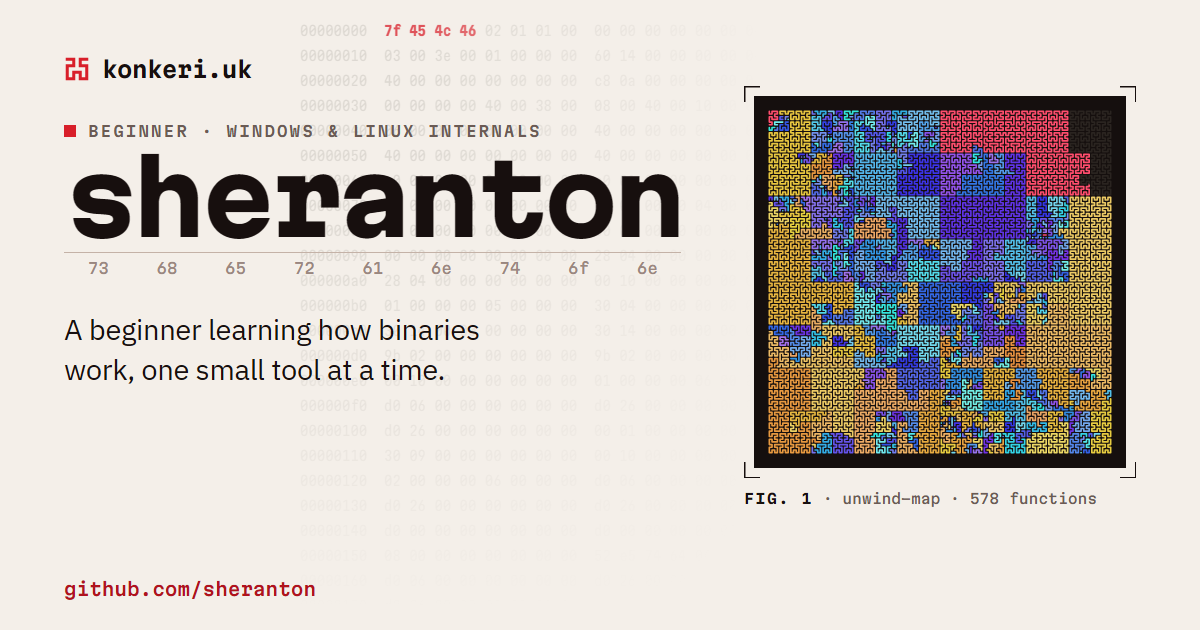
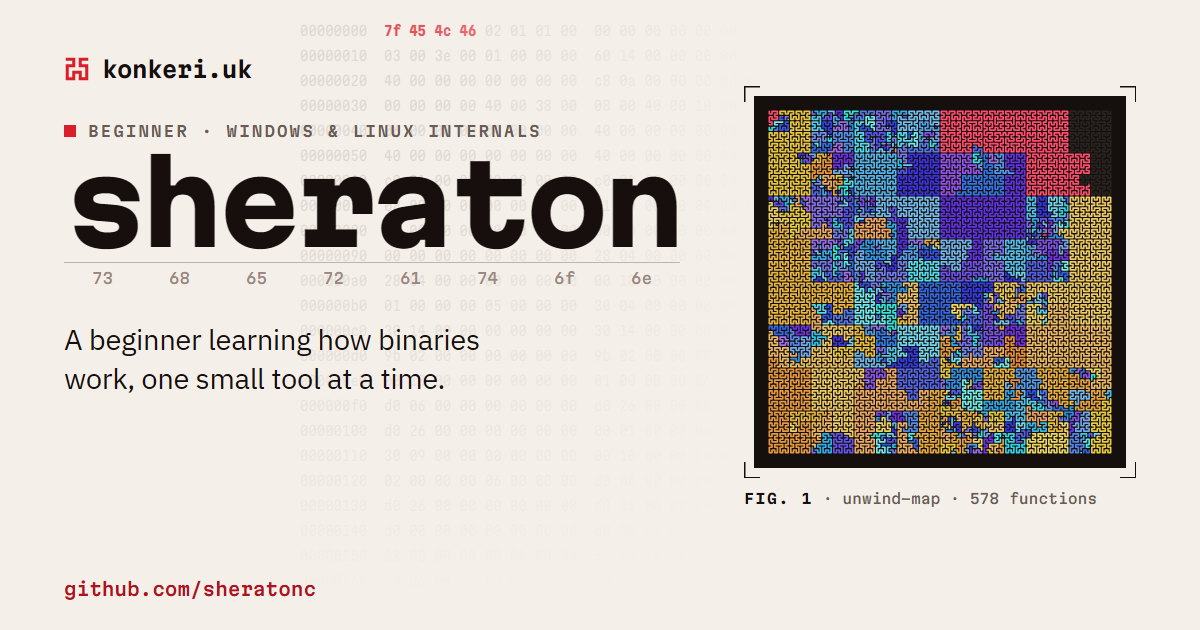
Use the sheraton alias and the sheratonc account

Changed region(s): [[0.0617, 0.2413, 0.5858, 0.4524], [0.0308, 0.5127, 0.4008, 0.6333], [0.2158, 0.9048, 0.2775, 0.9651]]

diff --git a/index.html b/index.html
@@ -3,8 +3,8 @@
 <head>
 	<meta charset="utf-8">
 	<meta name="viewport" content="width=device-width, initial-scale=1">
-	<title>sheranton · learning binary analysis and Windows &amp; Linux internals</title>
-	<meta name="description" content="sheranton is a beginner learning reverse engineering and Windows &amp; Linux internals by building small tools in Rust, C++, C and Python.">
+	<title>sheraton · learning binary analysis and Windows &amp; Linux internals</title>
+	<meta name="description" content="sheraton is a beginner learning reverse engineering and Windows &amp; Linux internals by building small tools in Rust, C++, C and Python.">
 	<meta name="color-scheme" content="light dark">
 	<meta name="theme-color" content="#f4efe9" media="(prefers-color-scheme: light)">
 	<meta name="theme-color" content="#100c0c" media="(prefers-color-scheme: dark)">
@@ -12,7 +12,7 @@
 	<link rel="canonical" href="https://konkeri.uk/">
 	<meta property="og:type" content="website">
 	<meta property="og:url" content="https://konkeri.uk/">
-	<meta property="og:title" content="sheranton · learning binary analysis and Windows & Linux internals">
+	<meta property="og:title" content="sheraton · learning binary analysis and Windows & Linux internals">
 	<meta property="og:description" content="A beginner learning how binaries work, one small tool at a time.">
 	<meta property="og:image" content="https://konkeri.uk/og.png">
 	<meta property="og:image:width" content="1200">
@@ -39,7 +39,7 @@
 			<button type="button" data-theme-set="paper" aria-pressed="false">Paper</button>
 			<button type="button" data-theme-set="ink" aria-pressed="false">Ink</button>
 		</div>
-		<a class="nav-gh" href="https://github.com/sheranton" rel="me">GitHub <span aria-hidden="true">↗</span></a>
+		<a class="nav-gh" href="https://github.com/sheratonc" rel="me">GitHub <span aria-hidden="true">↗</span></a>
 	</header>
 
 	<main id="main">
@@ -77,8 +77,8 @@
 			<div class="gutter" aria-hidden="true"><span class="addr">0x000000</span><span class="sname">e_ident</span><span class="meta">7f 45 4c 46</span></div>
 			<div class="sec-main">
 				<p class="kicker"><i aria-hidden="true"></i>Beginner · binary analysis · Windows &amp; Linux internals</p>
-				<h1 class="name" aria-label="sheranton">
-					<span class="ch" aria-hidden="true"><b>s</b><i>73</i></span><span class="ch" aria-hidden="true"><b>h</b><i>68</i></span><span class="ch" aria-hidden="true"><b>e</b><i>65</i></span><span class="ch" aria-hidden="true"><b>r</b><i>72</i></span><span class="ch" aria-hidden="true"><b>a</b><i>61</i></span><span class="ch" aria-hidden="true"><b>n</b><i>6e</i></span><span class="ch" aria-hidden="true"><b>t</b><i>74</i></span><span class="ch" aria-hidden="true"><b>o</b><i>6f</i></span><span class="ch" aria-hidden="true"><b>n</b><i>6e</i></span>
+				<h1 class="name" aria-label="sheraton">
+					<span class="ch" aria-hidden="true"><b>s</b><i>73</i></span><span class="ch" aria-hidden="true"><b>h</b><i>68</i></span><span class="ch" aria-hidden="true"><b>e</b><i>65</i></span><span class="ch" aria-hidden="true"><b>r</b><i>72</i></span><span class="ch" aria-hidden="true"><b>a</b><i>61</i></span><span class="ch" aria-hidden="true"><b>t</b><i>74</i></span><span class="ch" aria-hidden="true"><b>o</b><i>6f</i></span><span class="ch" aria-hidden="true"><b>n</b><i>6e</i></span>
 				</h1>
 				<div class="hero-grid">
 					<div class="hero-copy">
@@ -86,7 +86,7 @@
 						<p class="langs" aria-label="Languages"><span>Rust</span><span>C++</span><span>C</span><span>Python</span></p>
 						<p class="cta">
 							<a class="btn btn-solid" href="#tools">Browse the tools <span aria-hidden="true">↓</span></a>
-							<a class="btn" href="https://github.com/sheranton" rel="me">github.com/sheranton <span aria-hidden="true">↗</span></a>
+							<a class="btn" href="https://github.com/sheratonc" rel="me">github.com/sheratonc <span aria-hidden="true">↗</span></a>
 						</p>
 						<p class="latest" id="latest" hidden></p>
 					</div>
@@ -127,7 +127,7 @@
 				<h2 class="title"><span class="idx">01</span>About</h2>
 				<div class="about">
 					<div class="prose">
-						<p class="big">I'm <strong>sheranton</strong>, a beginner teaching myself systems programming and reverse engineering on Windows and Linux.</p>
+						<p class="big">I'm <strong>sheraton</strong>, a beginner teaching myself systems programming and reverse engineering on Windows and Linux.</p>
 						<p>I learn best by building things, so most of my projects are small tools that help me see what happens between source code and a running program: how compilers lay out objects and metadata, how linkers put a binary together, how loaders map it into memory, and how debuggers and unwinders read it back.</p>
 					</div>
 					<blockquote class="thesis">
@@ -154,7 +154,7 @@
 				<article class="feature" id="tool-unwind-map">
 					<div class="feature-copy">
 						<p class="label"><i class="sq tc-unwind-map" aria-hidden="true"></i>Biggest project so far · Rust</p>
-						<h3><a href="https://github.com/sheranton/unwind-map">unwind-map</a></h3>
+						<h3><a href="https://github.com/sheratonc/unwind-map">unwind-map</a></h3>
 						<p class="feature-desc" id="feature-desc">Recover function boundaries from stripped Linux ELF binaries using the .eh_frame unwind tables that strip can't remove.</p>
 						<p>In my tests it found every function that has unwind info without any false starts, and its output can go straight back into <code>objcopy</code> to give a stripped binary its symbols again.</p>
 						<dl class="spec">
@@ -164,7 +164,7 @@
 							<div><dt>Dependencies</dt><dd>0</dd></div>
 						</dl>
 						<p class="feature-meta" id="feature-meta"></p>
-						<p class="cta"><a class="btn" href="https://github.com/sheranton/unwind-map">Source on GitHub <span aria-hidden="true">↗</span></a></p>
+						<p class="cta"><a class="btn" href="https://github.com/sheratonc/unwind-map">Source on GitHub <span aria-hidden="true">↗</span></a></p>
 					</div>
 					<figure class="listing">
 						<div class="crop"><pre class="plate out" id="out-unwind-map" tabindex="0" aria-label="unwind-map output"></pre></div>
@@ -181,13 +181,13 @@
 						<div class="kit-list" id="kit-list" role="tablist" aria-orientation="vertical" aria-labelledby="kit-title">
 							<noscript>
 								<ul class="fallback">
-									<li><a href="https://github.com/sheranton/pe-walker">pe-walker</a>: inspect the structure of a PE file</li>
-									<li><a href="https://github.com/sheranton/pe-diff">pe-diff</a>: structural diff of two PE files</li>
-									<li><a href="https://github.com/sheranton/rtti-dump">rtti-dump</a>: recover class hierarchies from MSVC RTTI</li>
-									<li><a href="https://github.com/sheranton/vtable-dump">vtable-dump</a>: find vtables and their slots</li>
-									<li><a href="https://github.com/sheranton/pattern-scan">pattern-scan</a>: IDA-style signature scanning</li>
-									<li><a href="https://github.com/sheranton/Panda">Panda</a>: every game launcher in one library</li>
-									<li><a href="https://github.com/sheranton/opencode-discord-rpc">opencode-discord-rpc</a>: Discord Rich Presence for OpenCode</li>
+									<li><a href="https://github.com/sheratonc/pe-walker">pe-walker</a>: inspect the structure of a PE file</li>
+									<li><a href="https://github.com/sheratonc/pe-diff">pe-diff</a>: structural diff of two PE files</li>
+									<li><a href="https://github.com/sheratonc/rtti-dump">rtti-dump</a>: recover class hierarchies from MSVC RTTI</li>
+									<li><a href="https://github.com/sheratonc/vtable-dump">vtable-dump</a>: find vtables and their slots</li>
+									<li><a href="https://github.com/sheratonc/pattern-scan">pattern-scan</a>: IDA-style signature scanning</li>
+									<li><a href="https://github.com/sheratonc/Panda">Panda</a>: every game launcher in one library</li>
+									<li><a href="https://github.com/sheratonc/opencode-discord-rpc">opencode-discord-rpc</a>: Discord Rich Presence for OpenCode</li>
 								</ul>
 							</noscript>
 						</div>
@@ -244,9 +244,9 @@
 			<div class="sec-main">
 				<h2 class="title"><span class="idx">06</span>Contact</h2>
 				<p class="contact-lede">I'm still learning, so feedback, corrections and tips are really welcome. The best way to reach me is on GitHub: open an issue on any repository.</p>
-				<a class="biglink" href="https://github.com/sheranton" rel="me">github.com/sheranton<span aria-hidden="true">↗</span></a>
+				<a class="biglink" href="https://github.com/sheratonc" rel="me">github.com/sheratonc<span aria-hidden="true">↗</span></a>
 				<pre class="dyn" aria-label="readelf -d style summary of the links above"><span class="dim">  Tag        Type       Name/Value</span>
- 0x00000001 (NEEDED)   Shared library: [<a href="https://github.com/sheranton">github.com/sheranton</a>]
+ 0x00000001 (NEEDED)   Shared library: [<a href="https://github.com/sheratonc">github.com/sheratonc</a>]
  0x0000000e (SONAME)   Library soname: [konkeri.uk]</pre>
 			</div>
 		</section>
@@ -255,7 +255,7 @@
 	<footer class="footer">
 		<span class="eof">EOF</span>
 		<span>konkeri.uk · built <span id="build">2026</span> · served from Cloudflare's edge</span>
-		<span>© <span id="year">2026</span> sheranton</span>
+		<span>© <span id="year">2026</span> sheraton</span>
 	</footer>
 
 	<aside class="minimap" id="minimap" aria-hidden="true">

diff --git a/scripts/og.html b/scripts/og.html
@@ -27,7 +27,7 @@
 	.top svg { width: 26px; height: 26px; fill: none; stroke: #d81f2a; stroke-width: 2.8; stroke-linecap: square; }
 	.kicker { display: flex; align-items: center; gap: 12px; margin: 40px 0 18px; color: #6b5b55; font: 600 15px "Martian"; letter-spacing: 0.14em; text-transform: uppercase; }
 	.kicker i { width: 12px; height: 12px; background: #d81f2a; }
-	.name { display: flex; color: #170f0e; font: 800 98px/0.82 "Martian"; font-stretch: 112.5%; letter-spacing: -0.05em; }
+	.name { display: flex; color: #170f0e; font: 800 110px/0.82 "Martian"; font-stretch: 112.5%; letter-spacing: -0.05em; }
 	.ch { display: grid; justify-items: center; }
 	.ch i { justify-self: stretch; margin-top: 14px; padding-top: 8px; border-top: 1.5px solid #c4b2a7; color: #9a8780; font: 500 15px/1 "Martian"; font-style: normal; font-stretch: 100%; letter-spacing: 0; text-align: center; }
 	.lede { margin: 34px 0 0; max-width: 25ch; color: #170f0e; font-size: 29px; line-height: 1.35; letter-spacing: -0.01em; }
@@ -81,7 +81,7 @@
 		<div class="top"><svg viewBox="0 0 24 24"><path d="M3 3H9V9H3V21H9V15H15V21H21V9H15V3H21"/></svg>konkeri.uk</div>
 		<p class="kicker"><i></i>Beginner · Windows &amp; Linux internals</p>
 		<div class="name">
-			<span class="ch"><b>s</b><i>73</i></span><span class="ch"><b>h</b><i>68</i></span><span class="ch"><b>e</b><i>65</i></span><span class="ch"><b>r</b><i>72</i></span><span class="ch"><b>a</b><i>61</i></span><span class="ch"><b>n</b><i>6e</i></span><span class="ch"><b>t</b><i>74</i></span><span class="ch"><b>o</b><i>6f</i></span><span class="ch"><b>n</b><i>6e</i></span>
+			<span class="ch"><b>s</b><i>73</i></span><span class="ch"><b>h</b><i>68</i></span><span class="ch"><b>e</b><i>65</i></span><span class="ch"><b>r</b><i>72</i></span><span class="ch"><b>a</b><i>61</i></span><span class="ch"><b>t</b><i>74</i></span><span class="ch"><b>o</b><i>6f</i></span><span class="ch"><b>n</b><i>6e</i></span>
 		</div>
 		<p class="lede">A beginner learning how binaries work, one small tool at a time.</p>
 	</div>
@@ -89,6 +89,6 @@
 		<div class="crop"><div class="plate"><img src="../public/fig-unwind-map.svg" alt=""></div></div>
 		<p class="cap"><b>FIG. 1</b> · unwind-map · 578 functions</p>
 	</div>
-	<div class="url">github.com/sheranton</div>
+	<div class="url">github.com/sheratonc</div>
 </body>
 </html>

diff --git a/src/style.css b/src/style.css
@@ -241,7 +241,7 @@ h1, h2, h3, h4 { color: var(--fg); }
 	display: flex;
 	margin: 0 0 64px;
 	color: var(--fg);
-	font: 800 clamp(42px, 10.3vw, 145px)/0.82 var(--mono);
+	font: 800 clamp(47px, 11.6vw, 163px)/0.82 var(--mono);
 	font-stretch: 112.5%;
 	letter-spacing: -0.05em;
 }
@@ -564,7 +564,7 @@ figcaption { display: grid; gap: 6px; margin-top: 14px; color: var(--muted); fon
 	.theme { margin-left: auto; }
 	.sec { padding-top: 64px; }
 	.hero { padding-top: 28px; }
-	.name { margin-bottom: 44px; font-size: 12.6vw; }
+	.name { margin-bottom: 44px; font-size: 14.2vw; }
 	.ch i { margin-top: 12px; padding-top: 7px; font-size: 10px; }
 	.hexbg { right: 0; font-size: 10px; line-height: 19px; }
 	.hero-grid, .about { grid-template-columns: minmax(0, 1fr); gap: 40px; }

diff --git a/src/index.ts b/src/index.ts
@@ -11,7 +11,7 @@ interface Env {
 	GITHUB_TOKEN?: string;
 }
 
-const CACHE_KEY = "https://konkeri.uk/__cache/github/v4";
+const CACHE_KEY = "https://konkeri.uk/__cache/github/v5";
 const CACHE_SECONDS = 3600;
 /** The last complete live response, kept for a week as a better fallback than the build-time snapshot. */
 const LAST_GOOD_KEY = "https://konkeri.uk/__cache/github/last-good/v1";

diff --git a/src/main.ts b/src/main.ts
@@ -430,7 +430,7 @@ async function loadProjects() {
 		renderProjects((await res.json()) as GitHubData);
 	} catch {
 		const note = $("source-note");
-		if (note) note.textContent = "Couldn't reach GitHub just now; every tool is at github.com/sheranton.";
+		if (note) note.textContent = "Couldn't reach GitHub just now; every tool is at github.com/sheratonc.";
 	}
 }
 

diff --git a/cloudflare.config.ts b/cloudflare.config.ts
@@ -8,7 +8,7 @@ export default defineConfig({
 		entrypoint,
 		env: {
 			ASSETS: bindings.assets(),
-			GITHUB_USER: bindings.text("sheranton"),
+			GITHUB_USER: bindings.text("sheratonc"),
 			// Read-only GitHub token, set in the Cloudflare dashboard; it raises the API limit from 60 to 5,000 requests an hour.
 			GITHUB_TOKEN: bindings.secret(),
 		},

diff --git a/README.md b/README.md
@@ -5,7 +5,7 @@
 The source of [konkeri.uk](https://konkeri.uk), my CV and project index. The page is laid out like an annotated binary: its sections are named like ELF sections (`.text` holds the tools, `.dynamic` the contact links), the table of contents is a `readelf -S` section table with each section's real byte offset in the page, and the header's background is the real first bytes of an ELF file.
 
 - **Live from GitHub.** The Worker reads my repositories and releases from the GitHub API, caches them at the edge for an hour, and falls back to the last complete copy, then to a saved snapshot, if the API is rate-limited.
-- **Fig. 1** is a real [unwind-map](https://github.com/sheranton/unwind-map) map of a stripped binary, traced in address order on load. Hovering a trace shows the function it recovered.
+- **Fig. 1** is a real [unwind-map](https://github.com/sheratonc/unwind-map) map of a stripped binary, traced in address order on load. Hovering a trace shows the function it recovered.
 - **Page map.** A Hilbert-curve minimap of the page tracks where you are, and the accent colour follows the section you're reading.
 - **Two themes,** paper and ink, chosen from the system setting or the toggle.
 - **Strict by default.** No frameworks, no client-side JavaScript dependencies, no inline scripts or styles, and a `default-src 'self'` Content Security Policy on every response.
